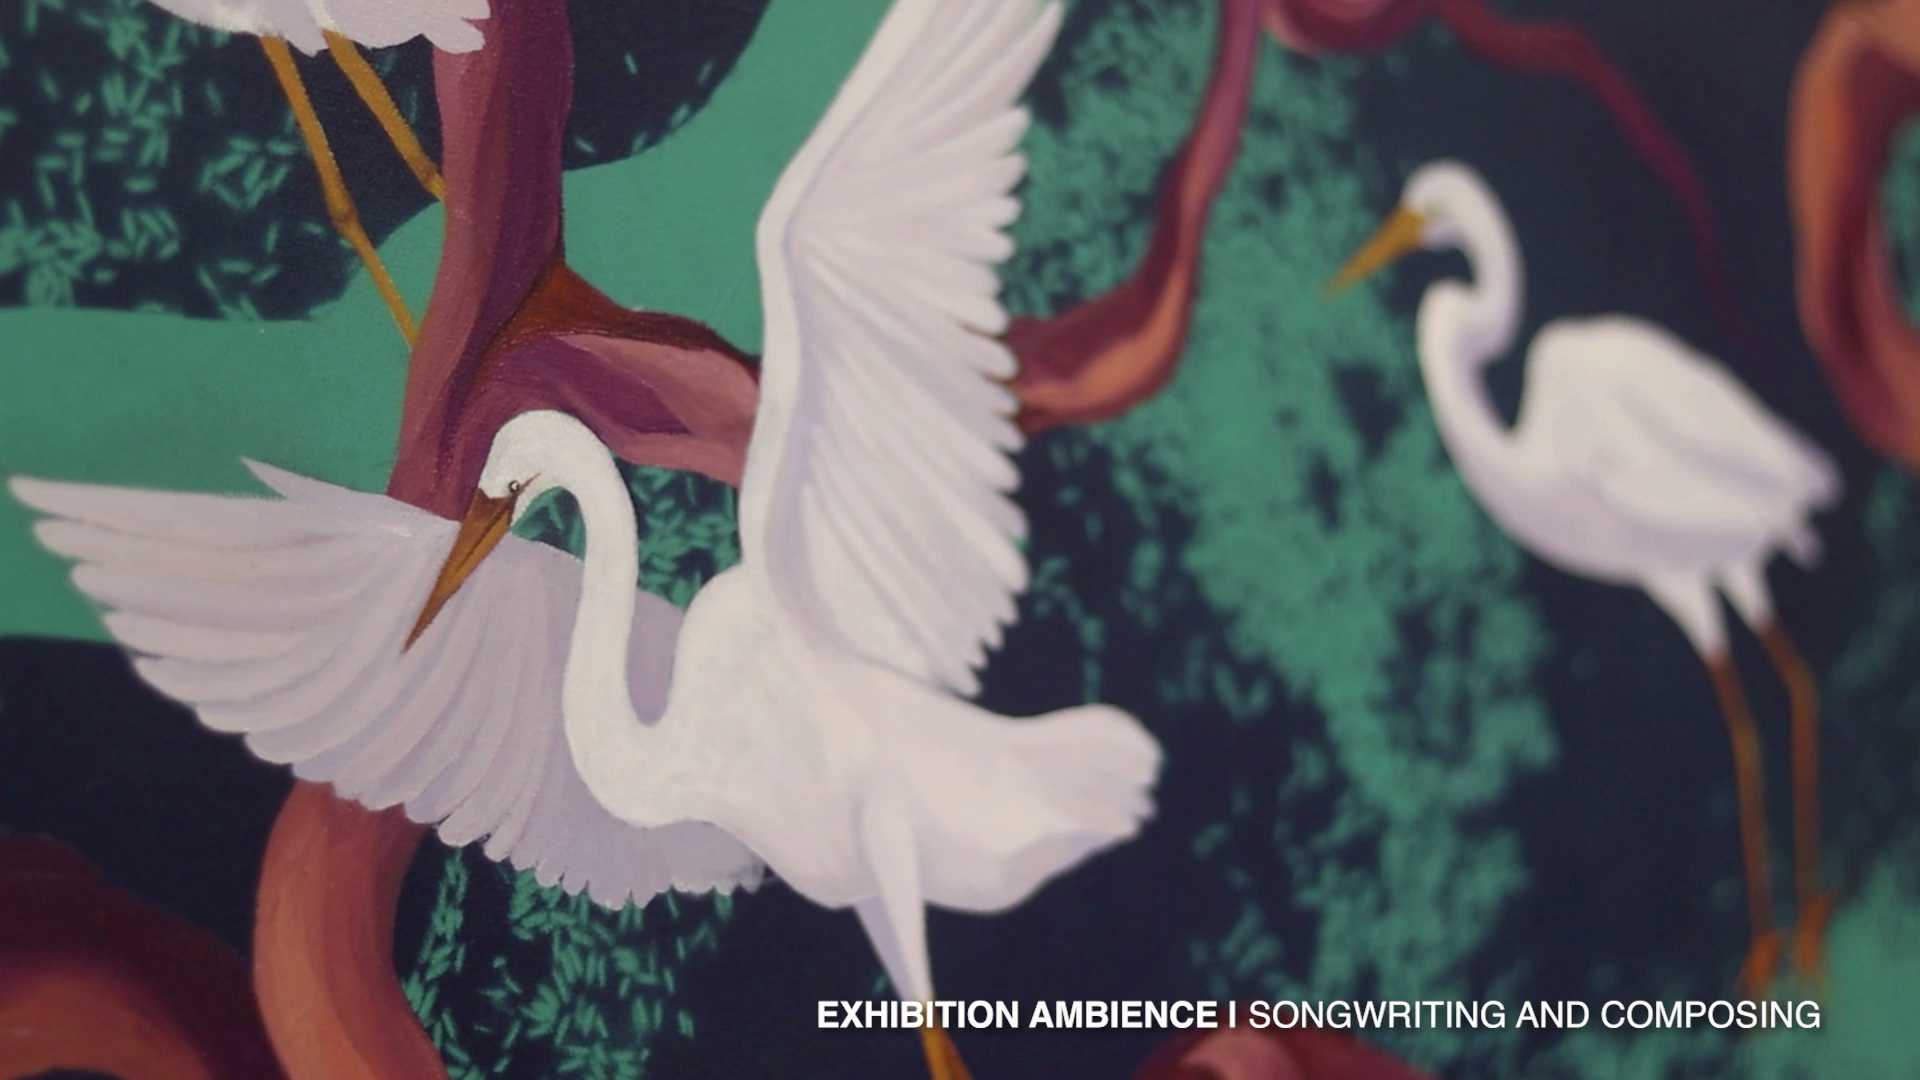
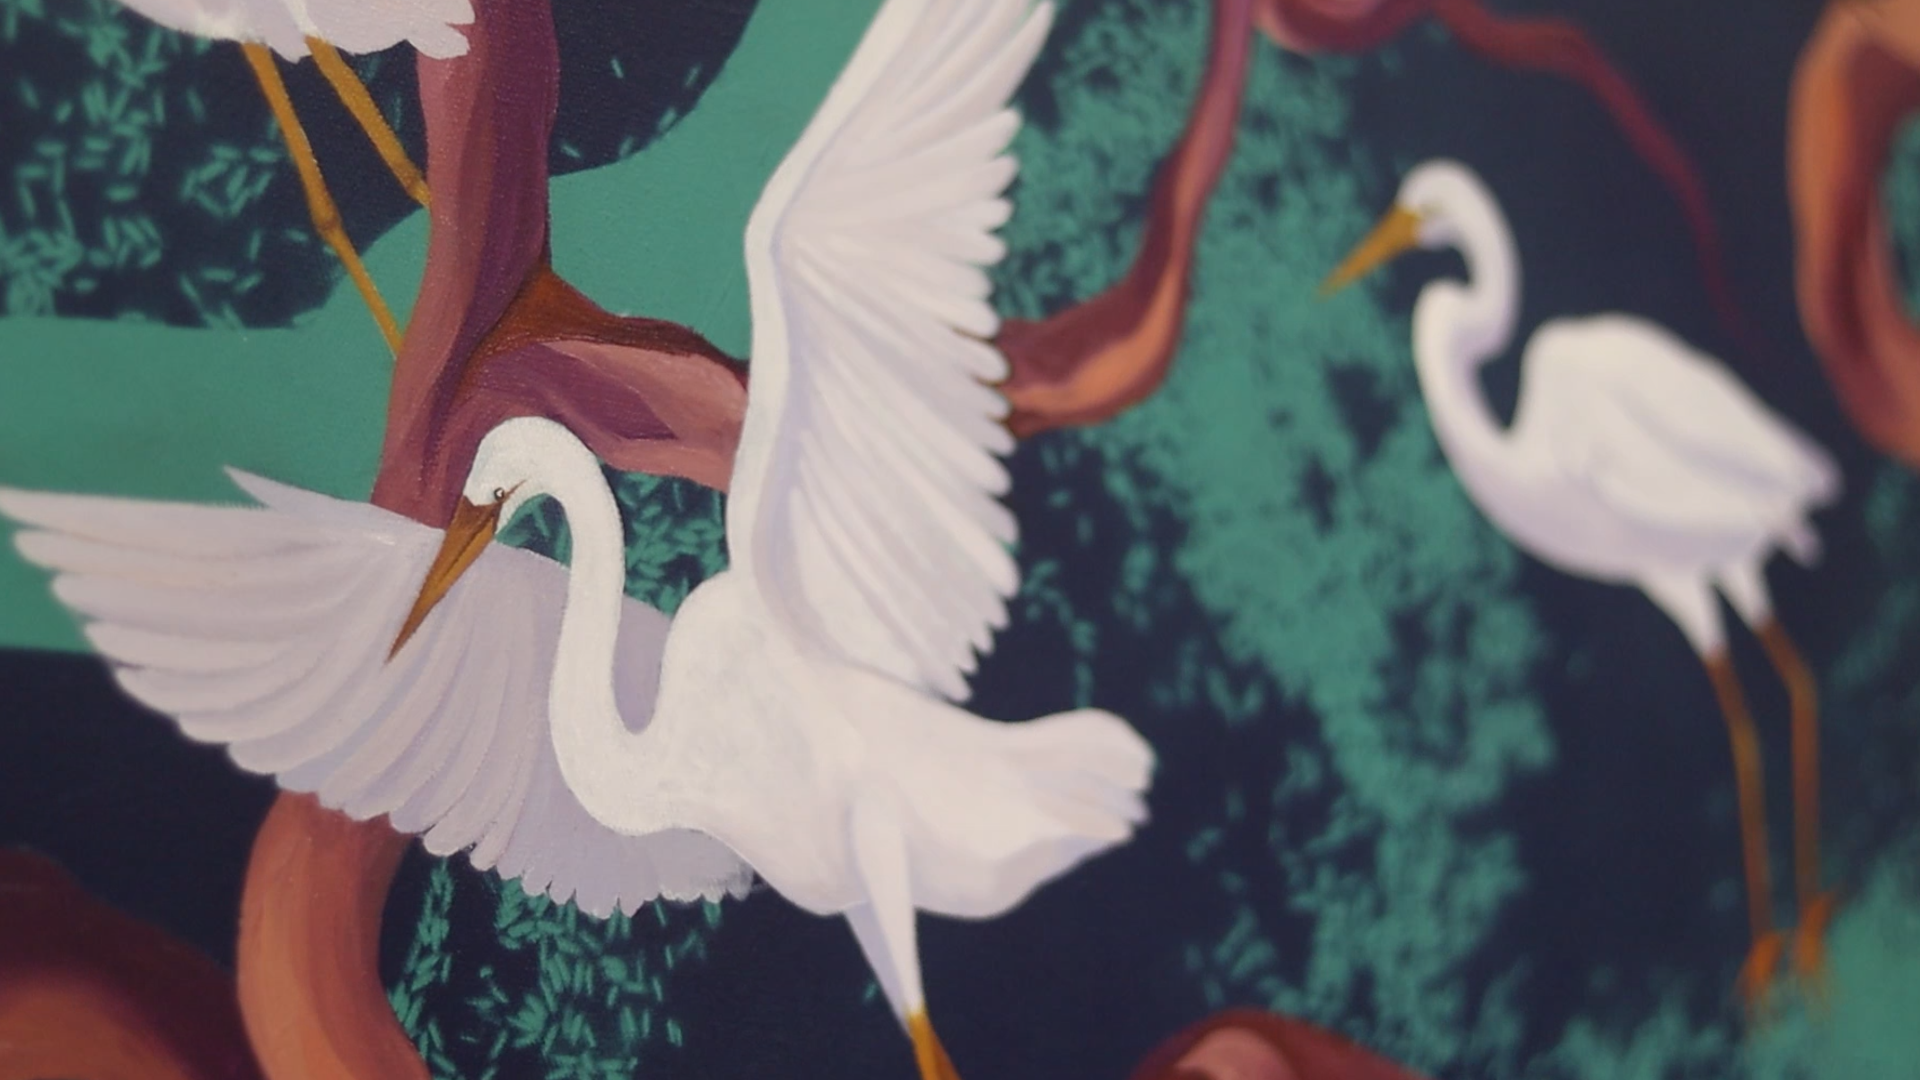
Design: video project cards added

diff --git a/assets/css/components/_project-list.scss b/assets/css/components/_project-list.scss
@@ -22,7 +22,9 @@
 		display: grid;
 		background-color: rgba(0, 0, 0, 0.191);
 		grid-template-columns: 1fr;
-		padding: 20px;
+
+        // background-color: aqua;
+		
 		gap: 1rem;
 		margin: 2rem 0;
 		list-style: none;
@@ -33,16 +35,28 @@
 			box-shadow 0.4s cubic-bezier(0.25, 0.46, 0.45, 0.94);
 		// Using cubic-bezier for a more nuanced acceleration/deceleration.
 
-		img {
-			width: 100%;
-			height: auto;
-			aspect-ratio: 16 / 9; /* Modern CSS property for aspect ratio */
-			object-fit: cover;
-			grid-area: 1 / 1 / 2 / 3;
-			transition: transform 0.4s cubic-bezier(0.25, 0.46, 0.45, 0.94);
-		}
+        article {
+            padding: 0 20px;
+        }
+
+        img {
+            width: 100%;
+            height: auto;
+            aspect-ratio: 16 / 9; /* Modern CSS property for aspect ratio */
+            object-fit: cover;
+            grid-area: 1 / 1 / 2 / 3;
+            transition: transform 0.4s cubic-bezier(0.25, 0.46, 0.45, 0.94);
+            position: relative;
+            
+            align-self: end;
+        }
+
         .project-title {
+            @include reset-spacing;
+            
             font-weight: 200;
+            
+
         }
 		.description {
 			grid-row: 2 / 3;

diff --git a/assets/css/components/_home-project-list.scss b/assets/css/components/_home-project-list.scss
@@ -60,15 +60,22 @@
 				}
 			}
 
-			img {
+            .video-container {
+                position: relative;
+                width: 100%;
+                aspect-ratio: 27 / 40;
+                overflow: hidden;
+				z-index: -1;
+
+            }
+
+			.thumbnail {
 				position: absolute;
-				object-fit: cover;
-				width: 100%; /* Make the image fill the container's width */
-				height: auto; /* Let the height adjust automatically to maintain aspect ratio */
-				aspect-ratio: 27 / 40; /* Modern CSS property for aspect ratio */
+                width: 100%;
+                height: 100%;
+                object-fit: cover;
 				top: 0;
 				left: 0;
-				z-index: -1;
 			}
 			.image-hover {
 				transition: filter 0.3s ease;
@@ -76,9 +83,9 @@
 				display: inline-block;
 				overflow: hidden;
 				filter: grayscale(50%) brightness(0.6);
-			}
-			.image-hover:hover {
-				filter: grayscale(0%) brightness(1.2) contrast(1);
+                &:hover {
+                    filter: grayscale(0%) brightness(1.2) contrast(1);
+                }
 			}
 		}
 	}

diff --git a/layouts/projects/list.html b/layouts/projects/list.html
@@ -17,9 +17,9 @@
             {{ range sort .Pages .Params.year "desc" }}
             {{ if not .Params.draft }}
 
-            <li class="project-card">
+            <a href="{{ .RelPermalink }}">
+                    <li class="project-card">
                 <article class="scroll-fade-in">
-                    <a href="{{ .RelPermalink }}">
                         <div>
                             <h2 class="project-title">
                                 {{ .Title }} | {{ .Params.role }}
@@ -27,12 +27,12 @@
                             <p class="description">{{.Params.description}}</p>
                             <p class="city">{{ .Params.year }} - {{.Params.city}}</p>
                         </div>
-                        {{ with .Resources.GetMatch "cover.*" }}
-                        <img src="{{ .RelPermalink }}" alt="{{ $.Title }}" class="thumbnail" />
-                        {{ end }}
-                    </a>
-                </article>
-            </li>
+                    </article>
+                    {{ with .Resources.GetMatch "cover.*" }}
+                    <img src="{{ .RelPermalink }}" alt="{{ $.Title }}" class="thumbnail" />
+                    {{ end }}
+                </li>
+                </a>
 
             {{ end }}
             {{ end }}

diff --git a/assets/css/_variables.scss b/assets/css/_variables.scss
@@ -5,7 +5,7 @@ $text-color: #fff;
 	
 $title-font: "Inter", sans-serif;
 $regular-font: "Inter", Helvetica, Arial, sans-serif;
-$regular-font-size: 1.5rem;
+$regular-font-size: 1rem;
 // $regular-font: "Times New Roman", serif;
 
 // for scroll animations

diff --git a/assets/css/main.scss b/assets/css/main.scss
@@ -51,7 +51,7 @@ h6 {
 h1 {
     font-size: 80px;
     text-transform: lowercase;
-    font-weight: 200;
+    font-weight: 900;
 }
 
 p {

diff --git a/content/projects/documentary/index.md b/content/projects/documentary/index.md
@@ -1,20 +1,30 @@
 +++
 date = '2025-07-13T12:16:35+02:00'
-draft = true
-title = 'Documentary'
-description = "WWF and Shane documentaries, NYU Abu Dhabi Interactive Media - 24X"
+draft = false
+title = 'Freelancing'
+description = "Documentary shorts"
 role = "Editor"
 city = "Budapest/Abu Dhabi/Remote"
-priority = 0
-featured = false
+priority = 1
+featured = true
 hero = "Shane-720p.mp4"
+year = 2019
 +++
 
-# The Puppet Gene - A short documentary by Waleed Al Madani | Abu Dhabi | Assistant Editor
+# The Puppet Gene
+A short documentary by Waleed Al Madani | Abu Dhabi | Assistant Editor
+
+## Role 
 
 
+## Synopsis:
 
-## 
+Lili Pilári is directing her first shadow puppet theater performance where fish and sea mammals meet in the oceans’ deepest and best underwater circus (Sea show) to watch some wholesome talents in singing and gymnastics. With the help of her brother Áron and her parents Gábor Pilári & Zsuzsanna Vajda, she seeks to spread love and joy in the hearts of the kids in their magical family run puppet theater located in the small city of Pécs on the southern Hungarian border.
+
+While she takes us in to a journey of magic and art in making her show, we get a glimpse on behind the makings of such a beautiful craft.
+
+## Runtime
+
 12’ - Hungary, 2019
 Hungarian (Arabic and English subtitles Available)
 
@@ -22,12 +32,26 @@ Hungarian (Arabic and English subtitles Available)
 
 Cinalfama Lisbon Screening and Awards (Lisbon, 2019)
 
-## Synopsis:
-
-Lili Pilári is directing her first shadow puppet theater performance where fish and sea mammals meet in the oceans’ deepest and best underwater circus (Sea show) to watch some wholesome talents in singing and gymnastics. With the help of her brother Áron and her parents Gábor Pilári & Zsuzsanna Vajda, she seeks to spread love and joy in the hearts of the kids in their magical family run puppet theater located in the small city of Pécs on the southern Hungarian border.
-
-While she takes us in to a journey of magic and art in making her show, we get a glimpse on behind the makings of such a beautiful craft. 
 
 https://www.almadani.me/the-puppet-gene
 
 # Olympic Dark Horse - Shane Tusup
+
+Director: Ádám Miklósi, Arrabona Studios
+
+## Synopsis
+A YouTube documentary series with plans to become a Netflix documentary about the comeback of Shane Tusup into coaching swimmers for the Tokyo Olympics. 
+
+## More details
+
+After the highly publicized divorce from Katinka Hosszu, Tusup decided to take a break from coaching and returned to the US. Then, in 2019, he decided to make a comeback. Moving back to Hungary, he started coaching several swimmers. Liliana Szilagyi was one of these swimmers.
+
+# WWF mini docs
+
+Director: Ádám Miklósi, Arrabona Studios
+
+## The EU Green Deal
+
+Restoration Laws
+
+# 

diff --git a/content/projects/igem-show-videos/index.md b/content/projects/igem-show-videos/index.md
@@ -1,10 +1,13 @@
 +++
 date = '2025-07-13T11:30:45+02:00'
 draft = false
-title = 'iGEM Show Videos'
+featured = true
+priority = 1
+title = 'iGEM'
 description = "Start to finish cinematic event videos"
-role = "Video Creator"
+role = "Video Producer"
 year = 2025
+hero = "iGEM.mp4"
 city = "Paris/Remote"
 gallery = true
 +++